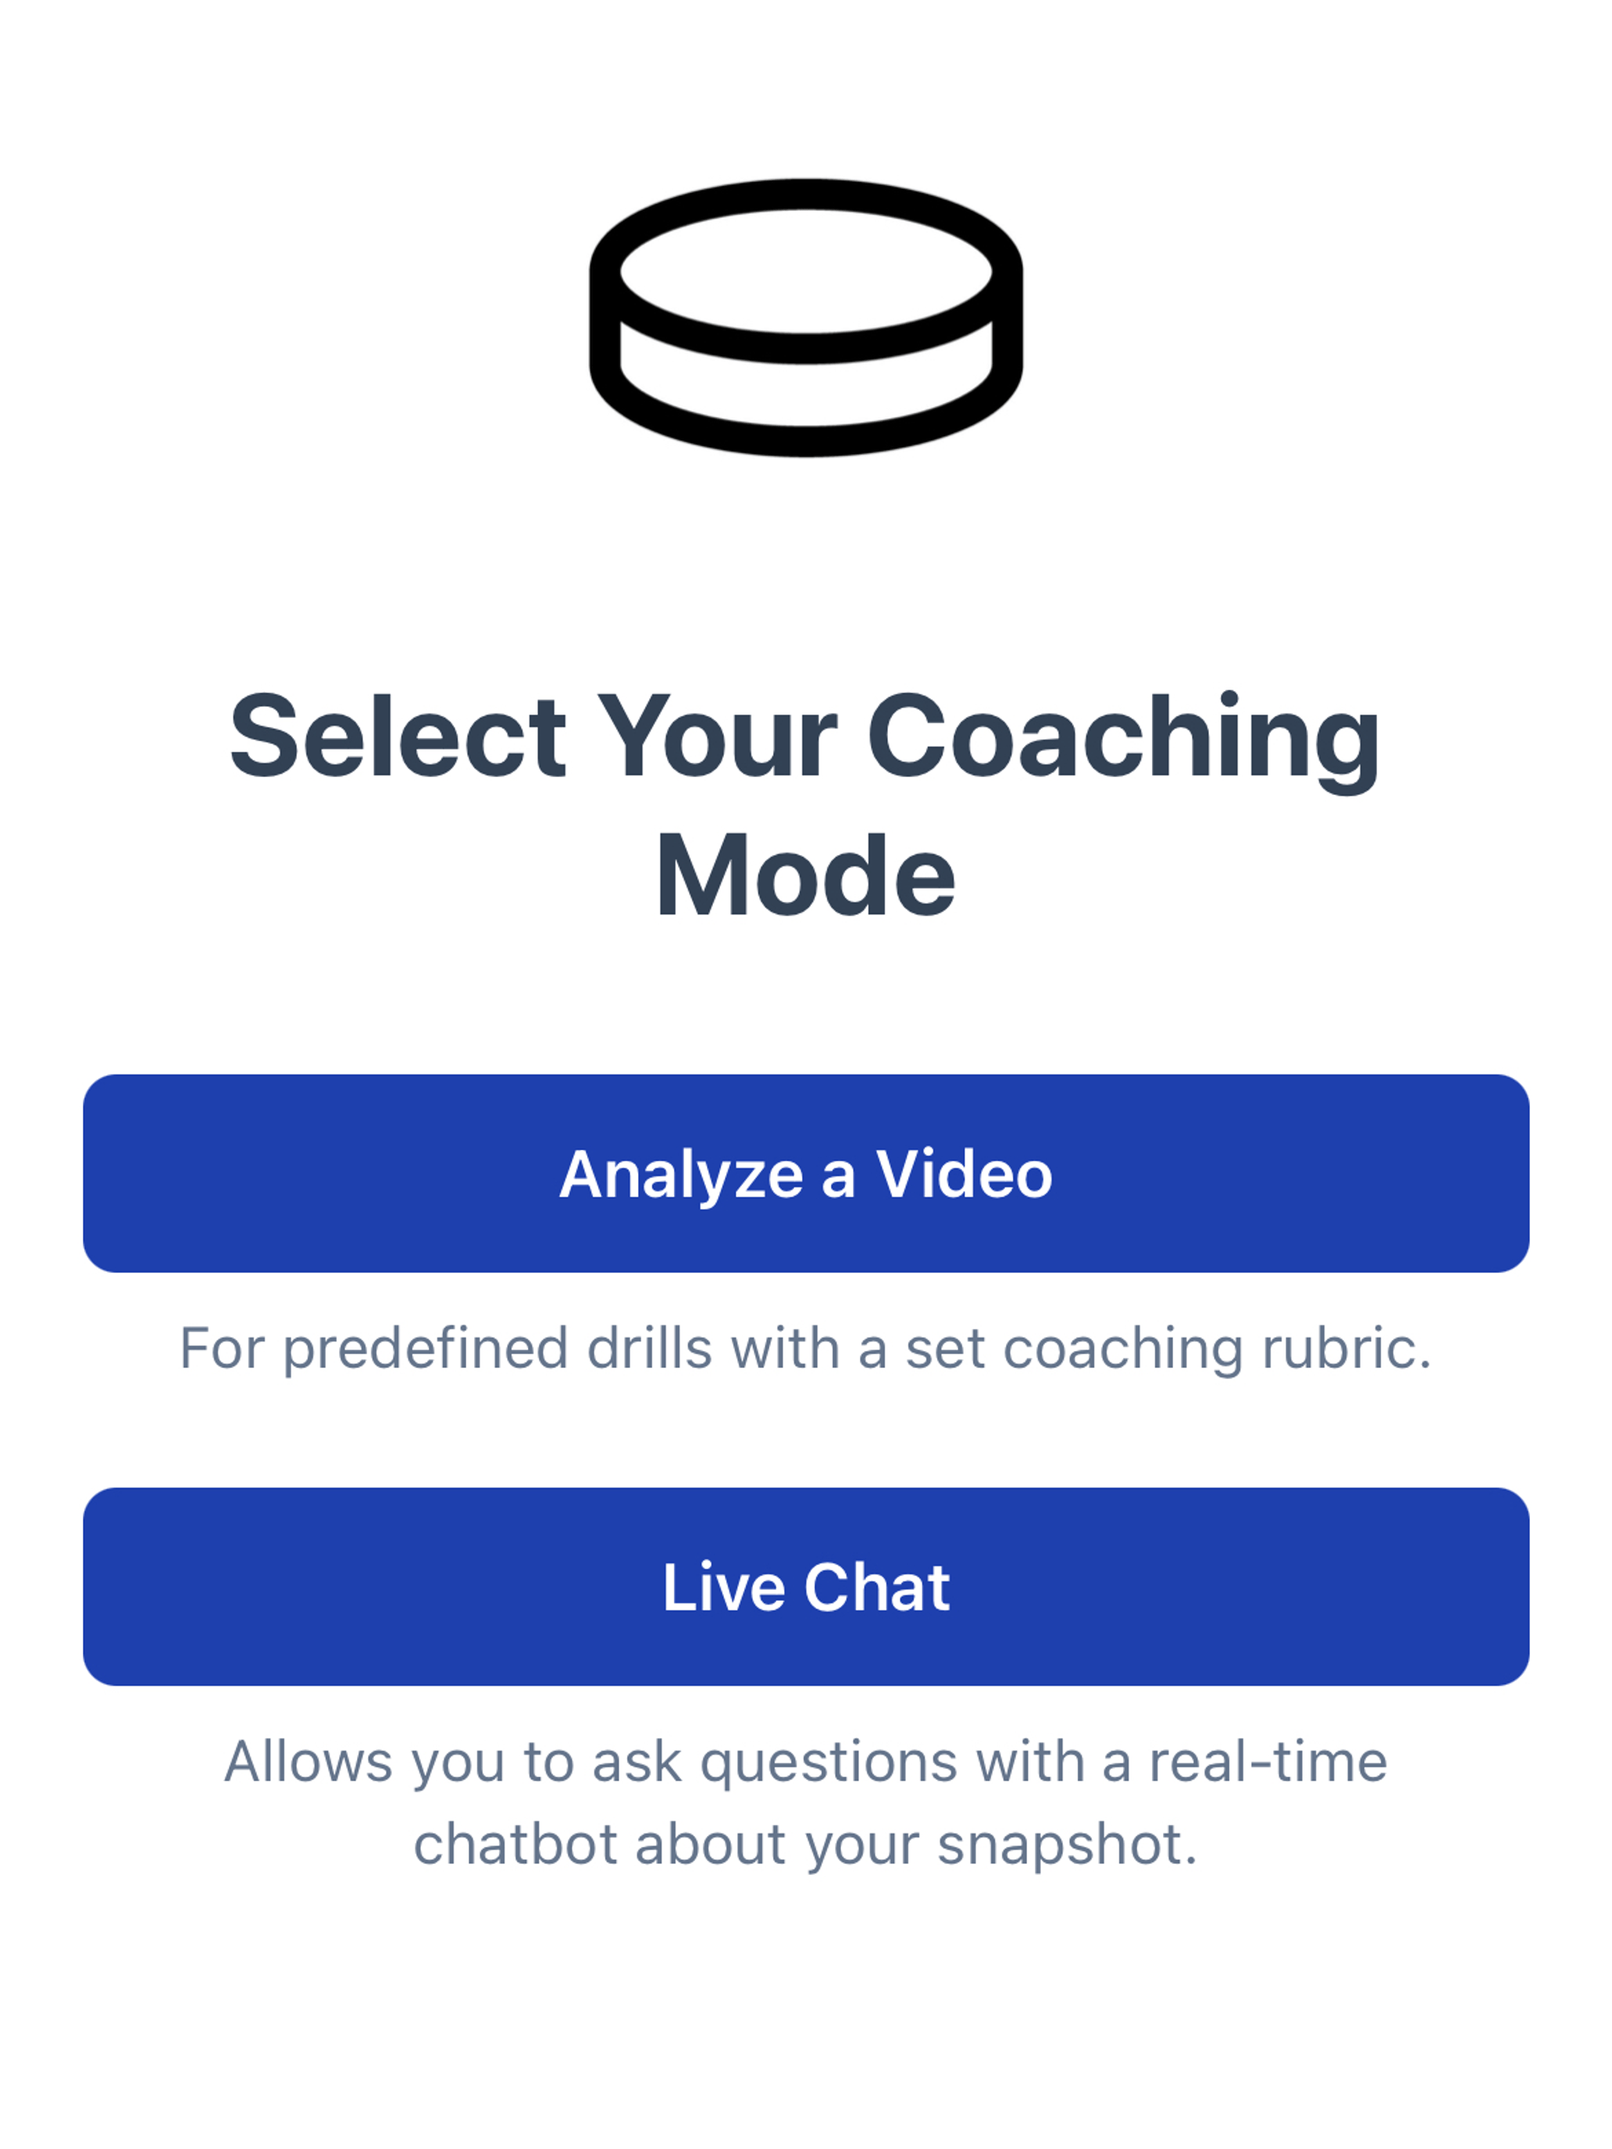
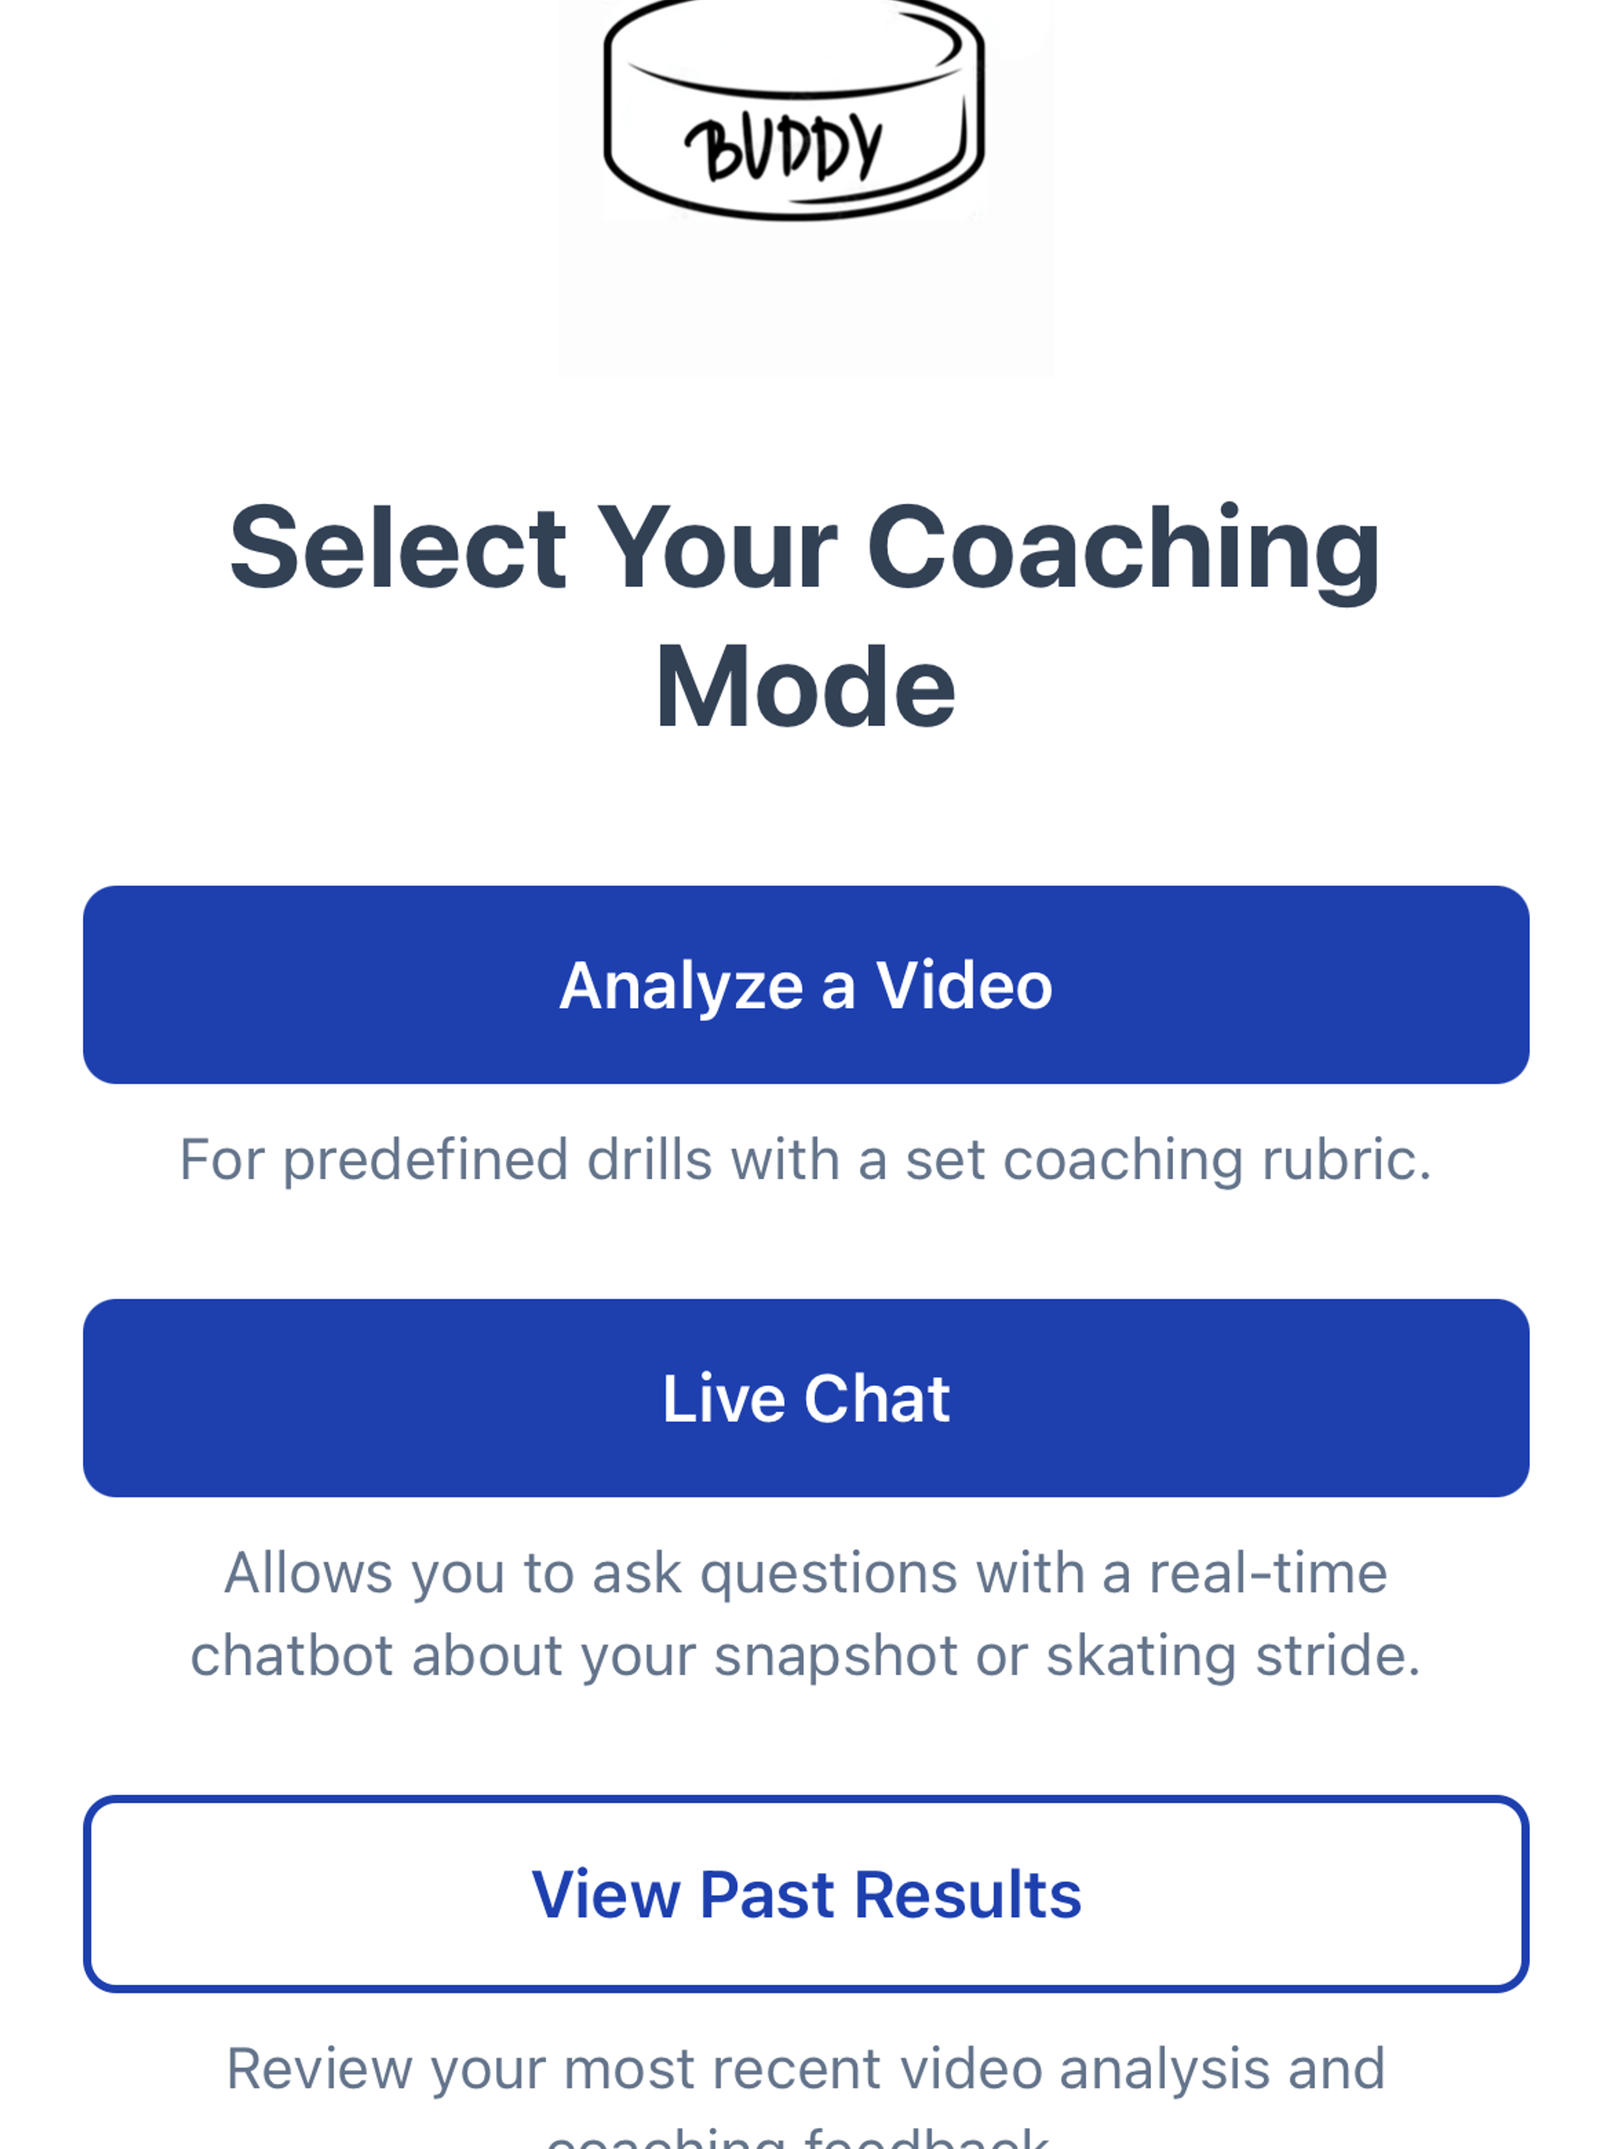
Add stride coaching features and resize prototype images for App Store
- Updated website copy to highlight stride coaching and detection alongside shot analysis
- Added stride coaching feature card to unique features section
- Updated hero, features, and meta descriptions to mention both shot and stride
- Resized prototype Dec10 images to iPhone and iPad formats for App Store Connect
- Resized 1.3 images to iPhone and iPad formats for App Store Connect
- Added resize scripts for future image processing

diff --git a/src/app/page.tsx b/src/app/page.tsx
@@ -15,7 +15,7 @@ export default function Home() {
               Your Personal AI Hockey Coach
             </h1>
             <p className="text-xl md:text-2xl mb-10 text-gray-300 leading-relaxed">
-              Stop guessing about your technique. Get AI-powered video analysis to perfect your shot, 
+              Stop guessing about your technique. Get AI-powered video analysis to perfect your shot and stride, 
               improve your power, accuracy, and form—all from your iPhone.
             </p>
             <a
@@ -148,6 +148,10 @@ export default function Home() {
                   desc: "Automatically capture every attempt in a session so you can compare trends, identify inconsistencies, and celebrate improvement.",
                 },
                 {
+                  title: "Stride Coaching & Detection",
+                  desc: "Get comprehensive stride analysis with real-time feedback on your skating technique. Improve your speed, power, and efficiency with AI-powered stride coaching.",
+                },
+                {
                   title: "Real-Time AI Coach Chat",
                   desc: "Chat with your AI coach in real-time, trained on your biomechanical data. Get instant answers to your questions, personalized training tips, and custom breakdowns of your videos.",
                 },
@@ -180,7 +184,7 @@ export default function Home() {
               Custom Coaching Feedback
             </h2>
             <p className="text-xl text-gray-600 mb-12 text-center">
-              Pick a coach and get on demand technique analysis
+              Pick a coach and get on demand analysis for shots and stride technique
             </p>
           </ScrollAnimation>
           <div className="grid grid-cols-1 md:grid-cols-3 gap-6 max-w-4xl mx-auto">
@@ -197,7 +201,7 @@ export default function Home() {
               </div>
               <div className="p-4">
                 <h3 className="font-semibold text-gray-900">AI Coach Seth Feedback</h3>
-                <p className="text-sm text-gray-600">On demand technique analysis from the best youth hockey coach in Charleston, SC.</p>
+                <p className="text-sm text-gray-600">On demand shot and stride analysis from the best youth hockey coach in Charleston, SC.</p>
               </div>
               </div>
             </ScrollAnimation>
@@ -233,7 +237,7 @@ export default function Home() {
               </div>
               <div className="p-4">
                 <h3 className="font-semibold text-gray-900">Score Card</h3>
-                <p className="text-sm text-gray-600">Detailed analysis of your shot performance with grades in 7 biomechanical metrics.</p>
+                <p className="text-sm text-gray-600">Detailed analysis of your shot and stride performance with grades in biomechanical metrics.</p>
               </div>
               </div>
             </ScrollAnimation>
@@ -293,7 +297,7 @@ export default function Home() {
               <ul className="space-y-3 text-gray-700">
                 <li className="flex items-start">
                   <span className="text-blue-600 mr-2">✓</span>
-                  <span>Get instant feedback on every shot.</span>
+                  <span>Get instant feedback on every shot and stride.</span>
                 </li>
                 <li className="flex items-start">
                   <span className="text-blue-600 mr-2">✓</span>
@@ -354,10 +358,10 @@ export default function Home() {
           </ScrollAnimation>
           <div className="grid md:grid-cols-4 gap-8 max-w-5xl mx-auto">
             {[
-              { number: "1", title: "Record", desc: "Use your iPhone to take a video of your shot." },
+              { number: "1", title: "Record", desc: "Use your iPhone to take a video of your shot or stride." },
               { number: "2", title: "Upload", desc: "Select the video from your library and upload it to the app." },
               { number: "3", title: "Analyze", desc: "Let our AI coach work its magic! In moments, you'll have a complete analysis." },
-              { number: "4", title: "Improve", desc: "Chat with a real time AI hockey coach trained on snapshot shot mechanics." },
+              { number: "4", title: "Improve", desc: "Chat with a real time AI hockey coach trained on shot mechanics and stride technique." },
             ].map((step, index) => (
               <ScrollAnimation key={index} delay={index * 0.1}>
                 <div className="text-center">
@@ -399,7 +403,7 @@ export default function Home() {
                 {[
                   {
                     title: "Unlimited Video Analysis",
-                    desc: "Get AI feedback on every shot you upload",
+                    desc: "Get AI feedback on every shot and stride you upload",
                   },
                   {
                     title: "Advanced Stats Tracking",

diff --git a/resize-prototype-dec10.js b/resize-prototype-dec10.js
@@ -1,0 +1,91 @@
+const sharp = require('sharp');
+const fs = require('fs');
+const path = require('path');
+
+// Target dimensions
+const iPhoneWidth = 1242;
+const iPhoneHeight = 2688;
+const iPadWidth = 2064;
+const iPadHeight = 2752;
+
+async function resizePrototypeImages() {
+  const rootDir = path.resolve(__dirname, '..');
+  const prototypeDir = path.join(rootDir, 'prototype');
+  const publicDir = path.join(__dirname, 'public');
+  
+  // Ensure public directory exists
+  if (!fs.existsSync(publicDir)) {
+    fs.mkdirSync(publicDir, { recursive: true });
+  }
+  
+  // Check if prototype directory exists
+  if (!fs.existsSync(prototypeDir)) {
+    console.error(`❌ Prototype directory not found: ${prototypeDir}`);
+    return;
+  }
+  
+  // Get all PNG files from prototype directory
+  const files = fs.readdirSync(prototypeDir).filter(file => 
+    file.toLowerCase().endsWith('.png')
+  );
+  
+  if (files.length === 0) {
+    console.log('⚠  No PNG files found in prototype directory');
+    return;
+  }
+  
+  console.log(`🔍 Found ${files.length} image(s) to resize...\n`);
+  
+  for (const imageName of files) {
+    const inputPath = path.join(prototypeDir, imageName);
+    
+    // Create base name (remove .png extension, lowercase, replace spaces with hyphens)
+    const baseName = imageName
+      .replace(/\.png$/i, '')
+      .toLowerCase()
+      .replace(/\s+/g, '-')
+      .trim();
+    
+    // Resize for iPhone
+    const iPhoneOutputFilename = `${baseName}-iphone.png`;
+    const iPhoneOutputPath = path.join(publicDir, iPhoneOutputFilename);
+    
+    try {
+      console.log(`📱 Resizing ${imageName} for iPhone to ${iPhoneWidth}x${iPhoneHeight}...`);
+      await sharp(inputPath)
+        .resize(iPhoneWidth, iPhoneHeight, {
+          fit: 'cover',
+          position: 'center'
+        })
+        .png({ quality: 100 })
+        .toFile(iPhoneOutputPath);
+      console.log(`✅ Saved iPhone version: ${iPhoneOutputFilename}`);
+    } catch (error) {
+      console.error(`❌ Error resizing iPhone ${imageName}:`, error.message);
+    }
+    
+    // Resize for iPad
+    const iPadOutputFilename = `${baseName}-ipad.png`;
+    const iPadOutputPath = path.join(publicDir, iPadOutputFilename);
+    
+    try {
+      console.log(`📱 Resizing ${imageName} for iPad to ${iPadWidth}x${iPadHeight}...`);
+      await sharp(inputPath)
+        .resize(iPadWidth, iPadHeight, {
+          fit: 'cover',
+          position: 'center'
+        })
+        .png({ quality: 100 })
+        .toFile(iPadOutputPath);
+      console.log(`✅ Saved iPad version: ${iPadOutputFilename}\n`);
+    } catch (error) {
+      console.error(`❌ Error resizing iPad ${imageName}:`, error.message);
+    }
+  }
+  
+  console.log('✨ Done! All prototype images resized for iPhone and iPad.');
+}
+
+resizePrototypeImages().catch(console.error);
+
+

diff --git a/resize-1.3-images.js b/resize-1.3-images.js
@@ -1,0 +1,90 @@
+const sharp = require('sharp');
+const fs = require('fs');
+const path = require('path');
+
+// Target dimensions
+const iPhoneWidth = 1242;
+const iPhoneHeight = 2688;
+const iPadWidth = 2064;
+const iPadHeight = 2752;
+
+async function resize13Images() {
+  const rootDir = path.resolve(__dirname, '..');
+  const imagesDir = path.join(rootDir, 'IMAGES', '1.3');
+  const publicDir = path.join(__dirname, 'public');
+  
+  // Ensure public directory exists
+  if (!fs.existsSync(publicDir)) {
+    fs.mkdirSync(publicDir, { recursive: true });
+  }
+  
+  // Check if images directory exists
+  if (!fs.existsSync(imagesDir)) {
+    console.error(`❌ Images directory not found: ${imagesDir}`);
+    return;
+  }
+  
+  // Get all PNG files from 1.3 directory
+  const files = fs.readdirSync(imagesDir).filter(file => 
+    file.toLowerCase().endsWith('.png')
+  );
+  
+  if (files.length === 0) {
+    console.log('⚠  No PNG files found in IMAGES/1.3 directory');
+    return;
+  }
+  
+  console.log(`🔍 Found ${files.length} image(s) to resize...\n`);
+  
+  for (const imageName of files) {
+    const inputPath = path.join(imagesDir, imageName);
+    
+    // Create base name (remove .png extension, lowercase, replace spaces with hyphens)
+    const baseName = imageName
+      .replace(/\.png$/i, '')
+      .toLowerCase()
+      .replace(/\s+/g, '-')
+      .trim();
+    
+    // Resize for iPhone
+    const iPhoneOutputFilename = `${baseName}-iphone.png`;
+    const iPhoneOutputPath = path.join(publicDir, iPhoneOutputFilename);
+    
+    try {
+      console.log(`📱 Resizing ${imageName} for iPhone to ${iPhoneWidth}x${iPhoneHeight}...`);
+      await sharp(inputPath)
+        .resize(iPhoneWidth, iPhoneHeight, {
+          fit: 'cover',
+          position: 'center'
+        })
+        .png({ quality: 100 })
+        .toFile(iPhoneOutputPath);
+      console.log(`✅ Saved iPhone version: ${iPhoneOutputFilename}`);
+    } catch (error) {
+      console.error(`❌ Error resizing iPhone ${imageName}:`, error.message);
+    }
+    
+    // Resize for iPad
+    const iPadOutputFilename = `${baseName}-ipad.png`;
+    const iPadOutputPath = path.join(publicDir, iPadOutputFilename);
+    
+    try {
+      console.log(`📱 Resizing ${imageName} for iPad to ${iPadWidth}x${iPadHeight}...`);
+      await sharp(inputPath)
+        .resize(iPadWidth, iPadHeight, {
+          fit: 'cover',
+          position: 'center'
+        })
+        .png({ quality: 100 })
+        .toFile(iPadOutputPath);
+      console.log(`✅ Saved iPad version: ${iPadOutputFilename}\n`);
+    } catch (error) {
+      console.error(`❌ Error resizing iPad ${imageName}:`, error.message);
+    }
+  }
+  
+  console.log('✨ Done! All 1.3 images resized for iPhone and iPad.');
+}
+
+resize13Images().catch(console.error);
+

diff --git a/src/app/layout.tsx b/src/app/layout.tsx
@@ -9,10 +9,10 @@ const inter = Inter({ subsets: ["latin"] });
 
 export const metadata: Metadata = {
   title: "Puck Buddy - Your AI Hockey Coach",
-  description: "Get AI-powered video analysis to perfect your shot. Your personal AI shooting coach for hockey players of all levels.",
+  description: "Get AI-powered video analysis to perfect your shot and stride. Your personal AI hockey coach for players of all levels.",
   openGraph: {
     title: "Puck Buddy - Your AI Hockey Coach",
-    description: "Get AI-powered video analysis to perfect your shot. Your personal AI shooting coach for hockey players of all levels.",
+    description: "Get AI-powered video analysis to perfect your shot and stride. Your personal AI hockey coach for players of all levels.",
     images: [
       {
         url: "/coach-seth-on-ice.png",
@@ -26,7 +26,7 @@ export const metadata: Metadata = {
   twitter: {
     card: "summary_large_image",
     title: "Puck Buddy - Your AI Hockey Coach",
-    description: "Get AI-powered video analysis to perfect your shot. Your personal AI shooting coach for hockey players of all levels.",
+    description: "Get AI-powered video analysis to perfect your shot and stride. Your personal AI hockey coach for players of all levels.",
     images: ["/coach-seth-on-ice.png"],
   },
 };

diff --git a/src/app/about/page.tsx b/src/app/about/page.tsx
@@ -27,7 +27,7 @@ export default function About() {
                 At Buddy Tech, we believe every athlete deserves the kind of coaching that unlocks their potential, regardless of zip code, budget, or experience. Our mission is to place pro-level feedback within reach by pairing trusted coaching knowledge with accessible AI.
               </p>
               <p className="text-lg leading-relaxed">
-                We are building more than software—we are crafting training companions that understand the nuances of each sport, celebrate progress, and keep families informed at every step. Whether you are ripping snapshots in the driveway or preparing for elite competition, Buddy Tech stands alongside you with data-driven insights and encouragement.
+                We are building more than software—we are crafting training companions that understand the nuances of each sport, celebrate progress, and keep families informed at every step. Whether you are practicing shots and strides in the driveway or preparing for elite competition, Buddy Tech stands alongside you with data-driven insights and encouragement.
               </p>
             </div>
           </div>

diff --git a/src/app/sms-terms/page.tsx b/src/app/sms-terms/page.tsx
@@ -62,3 +62,5 @@ export default function SMSTerms() {
     </div>
   );
 }
+
+
